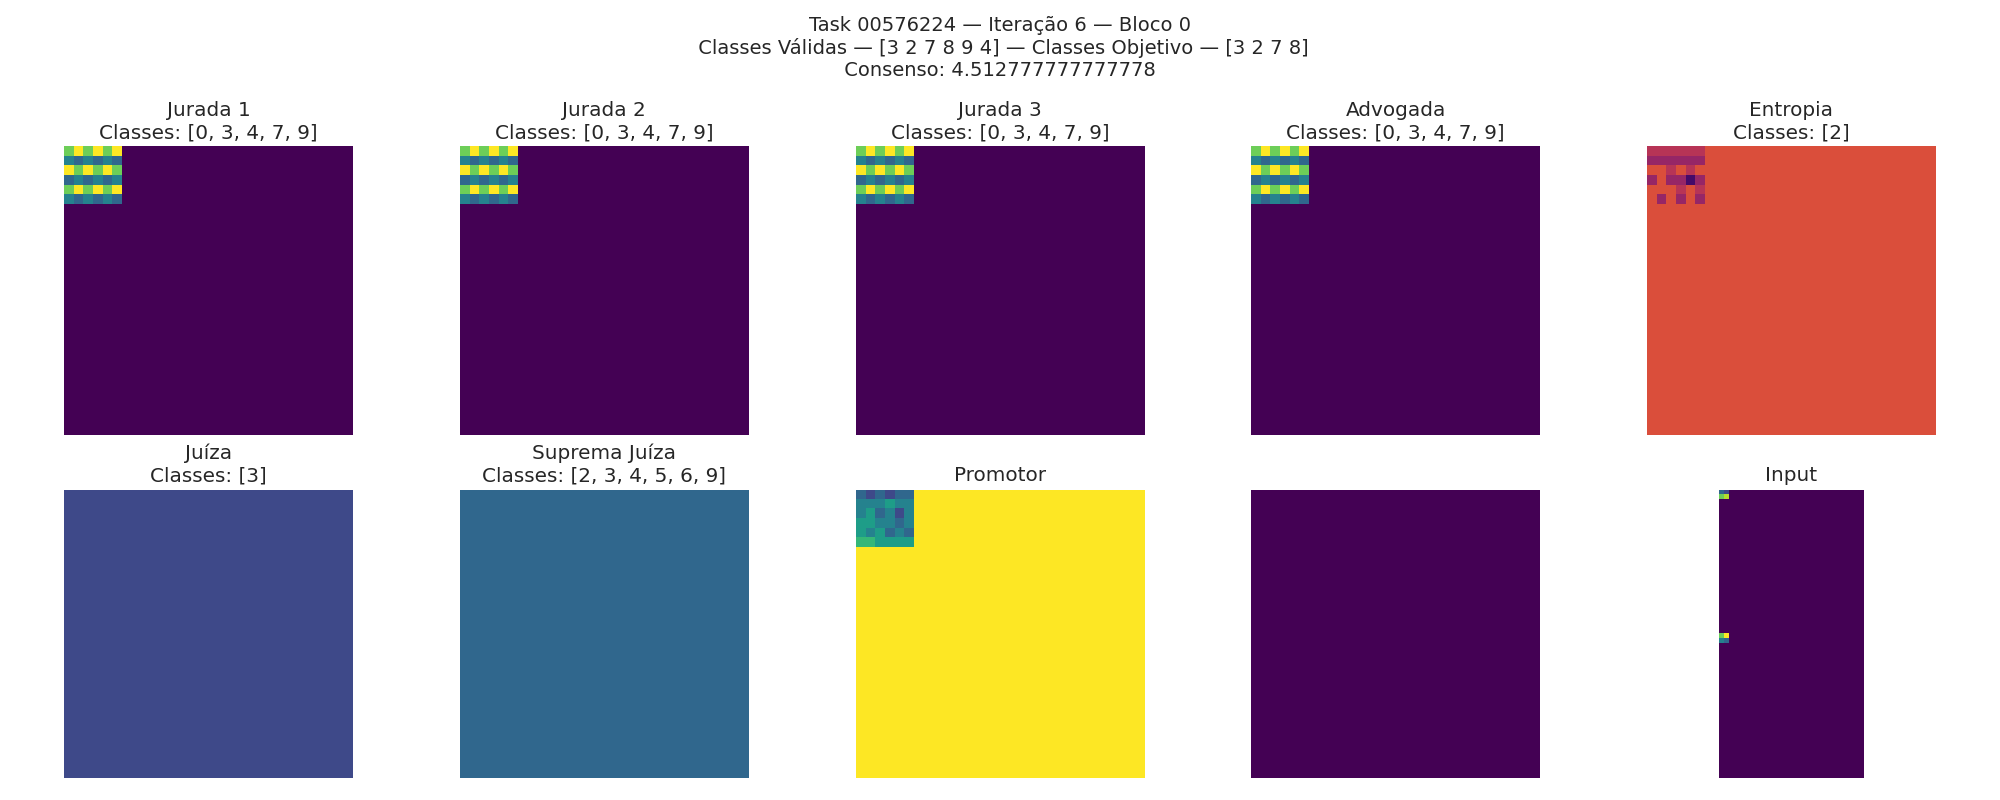
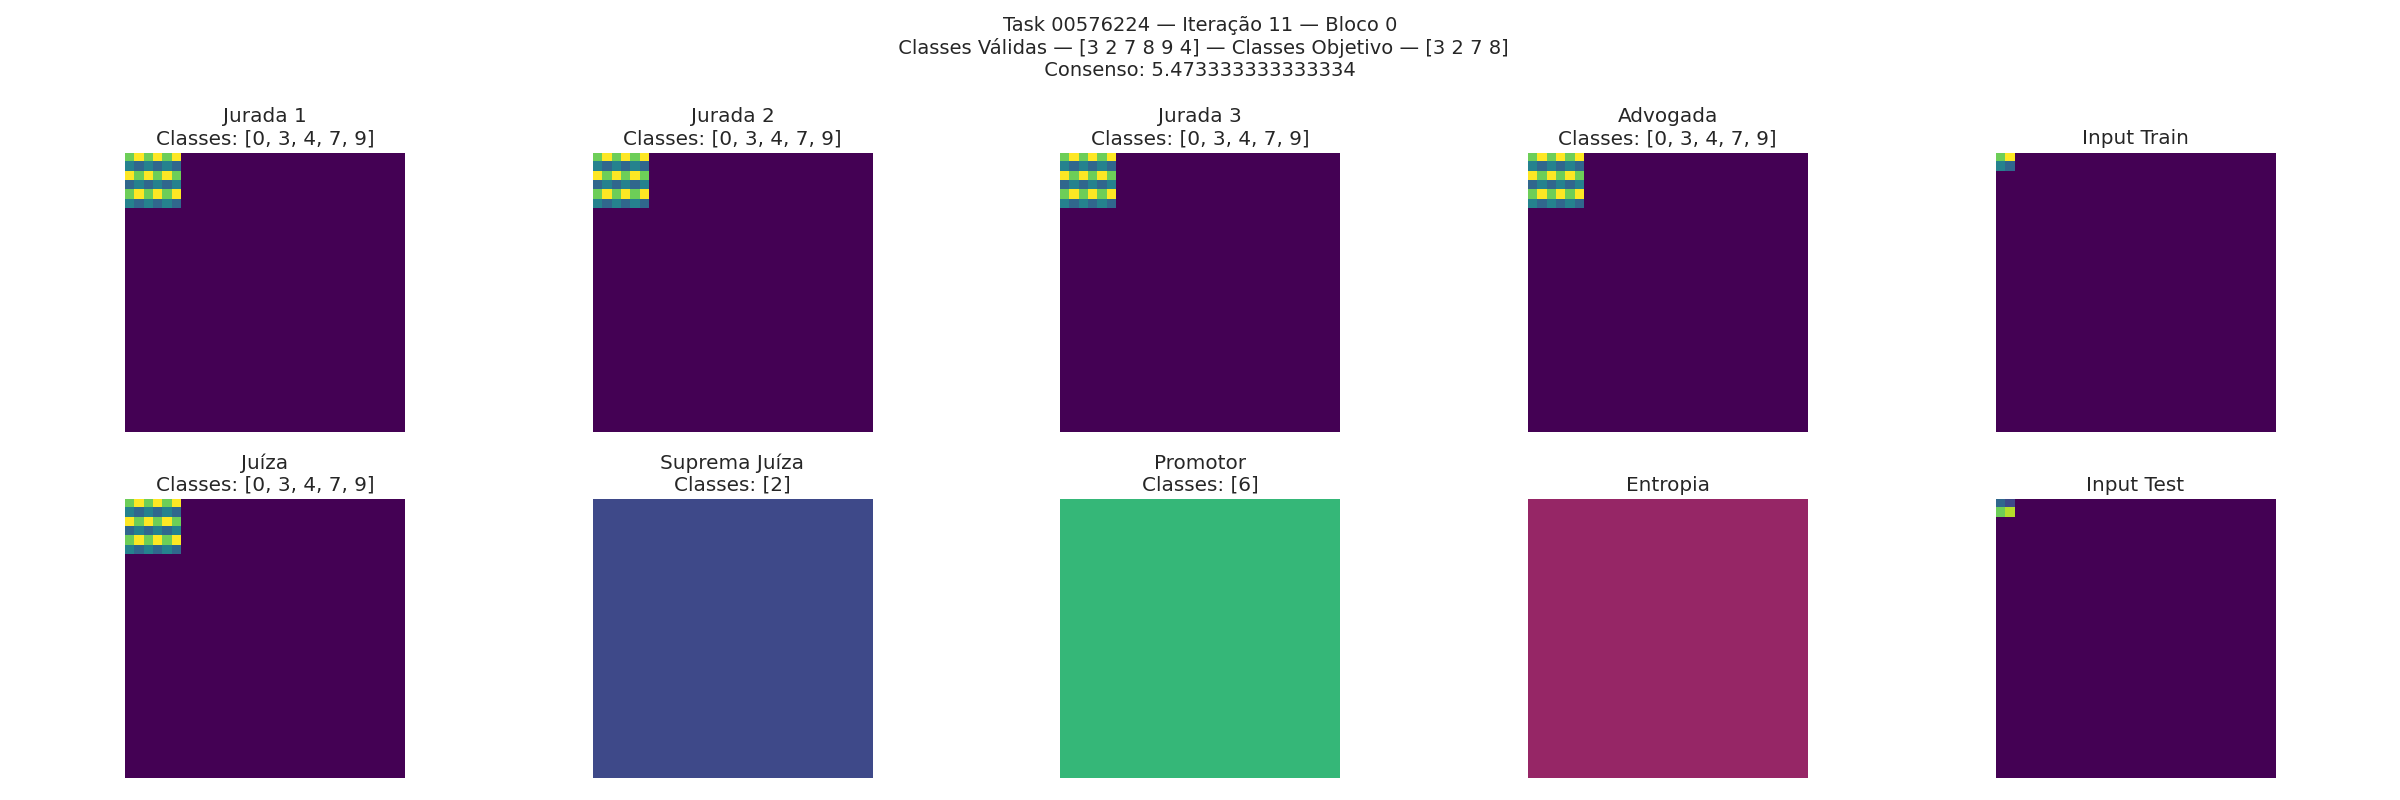
fixed display

diff --git a/graphics_utils.py b/graphics_utils.py
@@ -9,11 +9,11 @@ from metrics_utils import extrair_matriz_simbolica
 from metrics_utils import extrair_matriz_simbolica_test
 import scipy.stats  # Importa o pacote completo para uso robusto
 
-def salvar_voto_visual(votos, iteracao, block_idx, input_tensor_outros, classes_validas, classes_objetivo, consenso, idx=0, task_id=None, saida_dir="debug_plots", filename="a"):
+def salvar_voto_visual(votos, iteracao, block_idx, input_train, input_test, classes_validas, classes_objetivo, consenso, idx=0, task_id=None, saida_dir="debug_plots", filename="a"):
     os.makedirs(saida_dir, exist_ok=True)
     fname = filename
     filepath = os.path.join(saida_dir, fname)
-
+    log(f"[VISUAL DEBUG] INPUT TRAIN SHAPE {input_train.shape} INPUT TEST SHAPE {input_test.shape}")
     votos_classes = []
     softmax_maxes = []
     classes_resumidas = []
@@ -76,29 +76,58 @@ def salvar_voto_visual(votos, iteracao, block_idx, input_tensor_outros, classes_
         print("[VISUAL DEBUG] ❌ Nenhuma predição válida para visualização.")
         return
 
-    input_vis = input_tensor_outros
+    input_vis = input_train
     if isinstance(input_vis, tf.Tensor):
         input_vis = input_vis.numpy()
     if input_vis.ndim == 5:
         input_vis = input_vis[0]
-    if input_vis.ndim == 4 and input_vis.shape[-1] == 10:
-        input_vis = np.argmax(input_vis, axis=-1).astype(np.int32)
-    elif input_vis.ndim == 3:
-        if input_vis.shape[-1] == 10:
-            input_vis = np.argmax(input_vis, axis=-1).astype(np.int32)
+    if input_vis.ndim == 4 and input_vis.shape ==  (1, 30, 30, 3):
+        input_vis = input_vis[0]
+    
+    if input_vis.ndim == 4 and input_vis.shape[-1] == 1:
+        input_vis = tf.squeeze(input_vis, axis=-1)
+        log(f"[VISUAL DEBUG] input_vis interpretado como simbólico com shape {input_vis.shape}.")
+
+    if input_vis.ndim == 3:
+        if input_vis.shape[-1] == 1:
+            log(f"[VISUAL DEBUG] input_vis interpretado como simbólico com shape (30,30,1).")
         elif input_vis.shape[-1] == 3:
-            float_block = input_vis[:, :, 0].astype(np.float32)
-            rounded = np.floor(float_block + 0.5)
-            clipped = np.clip(rounded, 0, 9)
-            input_vis = clipped.astype(np.int32)
-        elif input_vis.shape[-1] == 1:
-            input_vis = input_vis[:, :, 0].astype(np.int32)
-        elif input_vis.shape[-1] > 1:
-            input_vis = np.argmax(input_vis, axis=-1).astype(np.int32)
+            input_vis = input_vis[:, :, 0]
+        else:
+            log(f"[VISUAL DEBUG] input_vis interpretado como simbólico com shape {input_vis.shape}.")
+            pass
+
     elif input_vis.ndim == 2:
-        input_vis = input_vis.astype(np.int32)
+        log(f"[VISUAL DEBUG] input_vis interpretado como simbólico com shape {input_vis.shape}.")
     else:
-        input_vis = np.zeros((30, 30), dtype=np.int32)
+        raise ValueError(f"[VISUAL DEBUG] Formato de input_vis não suportado: {input_vis.shape}")
+    
+
+    input_teste = input_test
+    if isinstance(input_teste, tf.Tensor):
+        input_teste = input_teste.numpy()
+    if input_teste.ndim == 5:
+        input_teste = input_teste[0]
+    if input_teste.ndim == 4 and input_teste.shape ==  (1, 30, 30, 3):
+        input_teste = input_teste[0]
+    
+    if input_teste.ndim == 4 and input_teste.shape[-1] == 1:
+        input_teste = tf.squeeze(input_teste, axis=-1)
+        log(f"[VISUAL DEBUG] input_teste interpretado como simbólico com shape {input_teste.shape}.")
+
+    if input_teste.ndim == 3:
+        if input_teste.shape[-1] == 1:
+            log(f"[VISUAL DEBUG] input_teste interpretado como simbólico com shape (30,30,1).")
+        elif input_teste.shape[-1] == 3:
+            input_teste = input_teste[:, :, 0]
+        else:
+            log(f"[VISUAL DEBUG] input_teste interpretado como simbólico com shape {input_teste.shape}.")
+            pass
+
+    elif input_teste.ndim == 2:
+        log(f"[VISUAL DEBUG] input_teste interpretado como simbólico com shape {input_teste.shape}.")
+    else:
+        raise ValueError(f"[VISUAL DEBUG] Formato de input_teste não suportado: {input_teste.shape}")
 
     votos_stack = np.stack(votos_classes, axis=0)
     h, w = votos_stack.shape[1:3]
@@ -110,35 +139,51 @@ def salvar_voto_visual(votos, iteracao, block_idx, input_tensor_outros, classes_
             entropia_map[i, j] = scipy.stats.entropy(probs, base=2)
 
     num_modelos = len(votos_classes)
-    fig, axes = plt.subplots(2, num_modelos + 1, figsize=(4 * (num_modelos + 1), 8))
+    fig, axes = plt.subplots(2, 5, figsize=(3 * (num_modelos + 1), 8))
     cargos = {
         0: "Jurada 1", 1: "Jurada 2", 2: "Jurada 3",
         3: "Advogada", 4: "Juíza", 5: "Suprema Juíza", 6: "Promotor"
     }
 
-    for i in range(num_modelos):
+    for i in range(len(cargos)):
         nome = cargos.get(i, f"Modelo {i}")
-        voto = votos_classes[i]
-        smap = softmax_maxes[i]
-        classes_int = classes_resumidas[i].astype(np.int32)
-
+        voto = votos_classes[i] if i < len(votos_classes) else None
+        classes_int = classes_resumidas[i] if i < len(classes_resumidas) else np.array([])
         classes_formatadas = ", ".join(map(str, classes_int.tolist()))
 
-        axes[0, i].imshow(voto.astype(np.int32), cmap="viridis", vmin=0, vmax=9, interpolation="nearest")
-        axes[0, i].set_title(f"{nome}\nClasses: [{classes_formatadas}]")
-        axes[0, i].axis("off")
+        if voto is not None:
+            if i < 4:
+                axes[0, i].imshow(voto.astype(np.int32), cmap="viridis", vmin=0, vmax=9, interpolation="nearest")
+                axes[0, i].set_title(f"{nome}\nClasses: [{classes_formatadas}]")
+                axes[0, i].axis("off")
+            elif i < 7:
+                axes[1, i - 4].imshow(voto.astype(np.int32), cmap="viridis", vmin=0, vmax=9, interpolation="nearest")
+                axes[1, i - 4].set_title(f"{nome}\nClasses: [{classes_formatadas}]")
+                axes[1, i - 4].axis("off")
+        else:
+            placeholder = np.zeros((30, 30))
+            if i < 4:
+                axes[0, i].imshow(placeholder, cmap="viridis", vmin=0, vmax=9)
+                axes[0, i].set_title(f"{nome}\n(Sem voto)")
+                axes[0, i].axis("off")
+            elif i < 7:
+                axes[1, i - 4].imshow(placeholder, cmap="viridis", vmin=0, vmax=9)
+                axes[1, i - 4].set_title(f"{nome}\n(Sem voto)")
+                axes[1, i - 4].axis("off")
 
-        axes[1, i].imshow(smap, cmap="Blues", interpolation="nearest", vmin=0, vmax=1)
-        axes[1, i].set_title("Confiança Máx.")
-        axes[1, i].axis("off")
 
-    axes[0, -1].imshow(input_vis.astype(np.int32), cmap="viridis", vmin=0, vmax=9)
-    axes[0, -1].set_title("Input")
+
+
+    axes[0, -1].imshow(input_vis, cmap="viridis", vmin=0, vmax=9)
+    axes[0, -1].set_title("Input Train")
     axes[0, -1].axis("off")
-
-    axes[1, -1].imshow(entropia_map, cmap="inferno", vmin=0, vmax=np.log2(num_modelos))
-    axes[1, -1].set_title("Entropia")
+    axes[1, -1].imshow(input_teste, cmap="viridis", vmin=0, vmax=9)
+    axes[1, -1].set_title("Input Test")
     axes[1, -1].axis("off")
+
+    axes[1, -2].imshow(entropia_map, cmap="inferno", vmin=0, vmax=np.log2(num_modelos))
+    axes[1, -2].set_title("Entropia")
+    axes[1, -2].axis("off")
 
     plt.suptitle(f"Task {task_id} — Iteração {iteracao} — Bloco {block_idx}\n Classes Válidas — {classes_validas} — Classes Objetivo — {classes_objetivo}\n Consenso: {consenso} ", fontsize=14)
     plt.tight_layout()

diff --git a/court_logic.py b/court_logic.py
@@ -57,19 +57,13 @@ def arc_court_supreme(models, X_train, y_train, y_val, X_test, task_id=None, blo
     votos_iniciais[f"modelo_{4}"] = modelos[4](X_train, training=False)
     votos_iniciais[f"modelo_{5}"] = modelos[5](X_test, training=False)
     votos_iniciais[f"modelo_{6}"] = modelos[6](X_test, training=False)
+
     classes_validas = extrair_todas_classes_validas(X_test, X_train, pad_value=pad_value)
     classes_objetivo = extrair_classes_validas(X_test, pad_value=pad_value)
 
-    # for i in range(5):
-    #     votos_iniciais[f"modelo_{i}"] = filtrar_classes_respeitando_valores(
-    #         votos_iniciais[f"modelo_{i}"], classes_validas, pad_value=pad_value
-    #     )
-
-    # Mantém os votos fixos dos jurados e advogada
-
     votos_models = {}
     
-    for i in range(1, 5):
+    for i in range(0, 5):
         votos_models[f"modelo_{i}"] = votos_iniciais[f"modelo_{i}"]
 
     for nome, voto in votos_models.items():
@@ -106,7 +100,7 @@ def arc_court_supreme(models, X_train, y_train, y_val, X_test, task_id=None, blo
     treinar_modelo_com_y_sparse(modelos[5], X_test, y_sup_redi, epochs=epochs * 3)
     treinar_modelo_com_y_sparse(modelos[6], X_test, y_antitese_redi, epochs=epochs * 3)
 
-    log(f"[DEBUG] Classes únicas após filtragem modelo_{i}: {np.unique(votos_iniciais[f'modelo_{i}'].numpy())}")
+    # log(f"[DEBUG] Classes únicas após filtragem modelo_{i}: {np.unique(votos_iniciais[f'modelo_{i}'].numpy())}")
 
     iter_count = 0
     consenso = 0.0
@@ -117,7 +111,7 @@ def arc_court_supreme(models, X_train, y_train, y_val, X_test, task_id=None, blo
         if iter_count >= max_cycles/4:
             votos_models[f"modelo_{0}"] = modelos[0](X_test, training=False)
         # Garante que os votos dos modelos 1–4 sejam mantidos ao longo do loop
-        for i in range(1, 5):
+        for i in range(0, 7):
             votos_models[f"modelo_{i}"] = votos_iniciais[f"modelo_{i}"]
 
         

diff --git a/court_utils.py b/court_utils.py
@@ -122,18 +122,18 @@ def gerar_visualizacao_votos(votos_models, input_tensor_outros, input_tensor_tra
             log(f"[VISUAL] erro ao extrair {nome}: {e}")
             return tf.zeros((30, 30), dtype=tf.int32)
 
-    input_visual_train = extrair_input_visual(input_tensor_train, "input_tensor_train")
-    input_visual_test = extrair_input_visual(input_tensor_outros, "input_tensor_outros")
+    # input_visual_train = extrair_input_visual(input_tensor_train, "input_tensor_train")
+    # input_visual_test = extrair_input_visual(input_tensor_outros, "input_tensor_outros")
 
     # Junta as duas imagens na vertical
-    input_visual = np.vstack([input_visual_train, input_visual_test])
 
     salvar_voto_visual(
         votos=votos_visuais,
         iteracao=iteracao,
         idx=idx,
         block_idx=block_idx,
-        input_tensor_outros=input_visual,
+        input_train=input_tensor_outros,
+        input_test=input_tensor_train,
         task_id=task_id,
         filename=f"a.png",
         classes_validas=classes_validas,

diff --git a/train_all.py b/train_all.py
@@ -77,14 +77,8 @@ def training_process(
 
     visual_grid = tf.squeeze(Y_train)  # reduz todas as dimensões de tamanho 1
 
-    # Se ainda tiver mais de 2 dimensões, selecione o canal 0
-    if visual_grid.shape.rank > 2:
-        visual_grid = visual_grid[..., 0]  # garante shape (30, 30)
-
-    plt.imshow(visual_grid.numpy(), cmap="viridis")
-    plt.title("Input Visual")
-    plt.colorbar()
-    plt.savefig("a.png")
+    
+    
     _ = model(X_train, training=False)
     pixel_color_perfect = 0.0
     pixel_shape_perfect = 0.0
